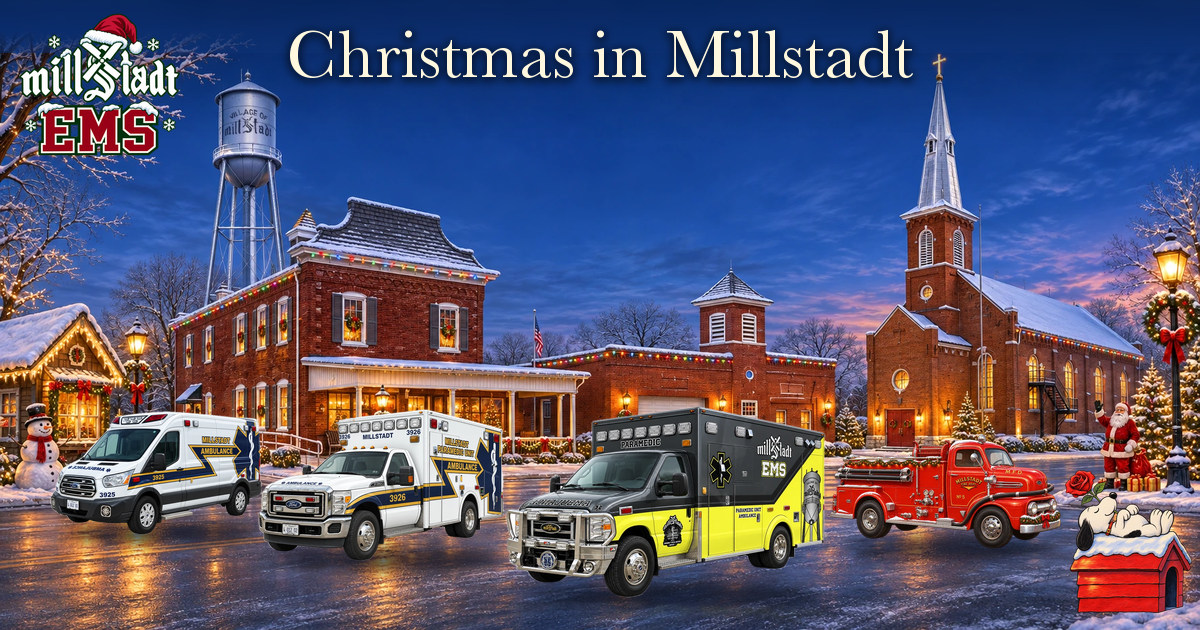
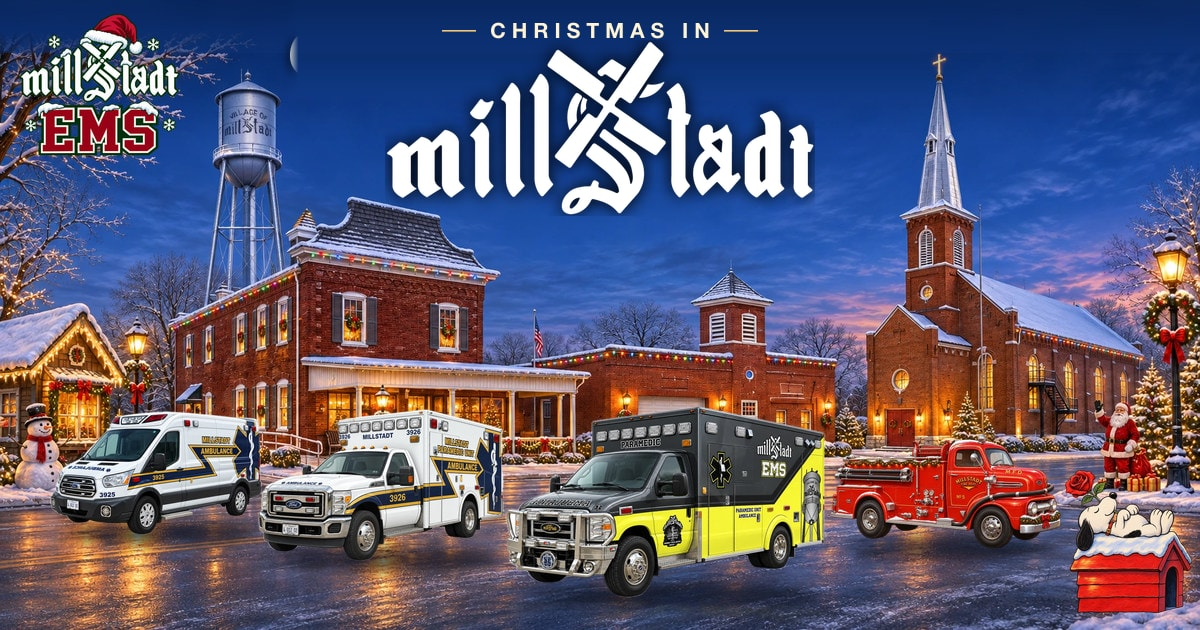
Bury every drive-by ambulance, shrink the carolers and add Audrey and Debbie
- The chaos sleigh and the roof-ride ambulance now drift over and get stuck like the classic one,
  with snow stages traced from their own art, and the police truck tows them out.
- Caroler pop-ups are about a third smaller and stay further from the middle of the screen.
- Audrey and Debbie join the random peeks from the bottom and sides.
- Link previews show "Christmas in Millstadt" with the millStadt wordmark.
- The hero call stats get breathing room above the "Established 1980" bar.

diff --git a/components/AmboScroll.tsx b/components/AmboScroll.tsx
@@ -194,22 +194,36 @@ function preload(urls: string[], ms = 12_000): Promise<boolean> {
 
 /** A vehicle that can be snowed in and towed: its five snow-stage overlays and tow geometry. */
 type StuckVehicle = {
-  id: "ambulance";
+  id: "ambulance" | "chaos" | "roof";
   art: string;
   stages: readonly string[];
   /** Fractions of the art box: front bumper x, body length, road line y, front tow hook. */
   front: number; length: number; floor: number; hook: readonly [number, number];
 };
+const snowStages = (prefix: string) => [1, 2, 3, 4, 5].map(n => `/images/winter/kit/ambulance-snow/${prefix}${n}.webp`);
 const AMBULANCE: StuckVehicle = {
   id: "ambulance",
   art: "/images/winter/driveby/cartoon-ambo.webp",
-  stages: [1, 2, 3, 4, 5].map(n => `/images/winter/kit/ambulance-snow/stage${n}.webp`),
+  stages: snowStages("stage"),
   front: .018, length: .97, floor: .918, hook: [.029, .718],
 };
-/** Which vehicle gets snowed in on a pass. The snow stages only fit the cartoon ambulance so far;
- *  fire trucks can join the draw once their stages exist. */
+// The painted 3935 in the chaos sleigh and roof-ride passes: snow stages traced from each art's own
+// outline (drifts from the road, caps on the roof, hood and windshield).
+const CHAOS_AMBULANCE: StuckVehicle = {
+  id: "chaos",
+  art: `${DRIVEBY}/chaos-ambulance.webp`,
+  stages: snowStages("chaos-stage"),
+  front: .015, length: .97, floor: .985, hook: [.025, .76],
+};
+const ROOF_AMBULANCE: StuckVehicle = {
+  id: "roof",
+  art: `${DRIVEBY}/roof-ride-1-still.webp`,
+  stages: snowStages("roof-stage"),
+  front: .023, length: .96, floor: .993, hook: [.03, .76],
+};
+/** Which vehicle gets snowed in on a pass: every ambulance can be buried and towed out. */
 function pickStuckVehicle(variant: VariantId): StuckVehicle | null {
-  return variant === "classic" ? AMBULANCE : null;
+  return variant === "classic" ? AMBULANCE : variant === "chaos" ? CHAOS_AMBULANCE : variant === "roof" ? ROOF_AMBULANCE : null;
 }
 /** Snow stage 1-5 for a hit count: stage 5 (fully stuck) lands on the STUCK_HITS-th hit. */
 const snowStage = (hits: number) => hits <= 0 ? 0 : hits >= STUCK_HITS ? 5 : 1 + Math.floor((hits - 1) * 4 / (STUCK_HITS - 1));
@@ -746,8 +760,8 @@ function WinterConvoy({ pass, onFinish, drive, convoyRef, ambulanceRef, sleighRe
       }}
     >
       {pass.variant === "classic" && <ClassicConvoy drive={drive} ambulanceRef={ambulanceRef} sleighRef={sleighRef} snowRef={snowRef} onArt={onArt} />}
-      {pass.variant === "chaos" && <ChaosConvoy pass={pass} drive={drive} ambulanceRef={ambulanceRef} sleighRef={sleighRef} lit={ready} onArt={onArt} />}
-      {pass.variant === "roof" && <RoofConvoy pass={pass} drive={drive} ambulanceRef={ambulanceRef} sleighRef={sleighRef} lit={ready} onArt={onArt} />}
+      {pass.variant === "chaos" && <ChaosConvoy pass={pass} drive={drive} ambulanceRef={ambulanceRef} sleighRef={sleighRef} snowRef={snowRef} lit={ready} onArt={onArt} />}
+      {pass.variant === "roof" && <RoofConvoy pass={pass} drive={drive} ambulanceRef={ambulanceRef} sleighRef={sleighRef} snowRef={snowRef} lit={ready} onArt={onArt} />}
       {pass.variant === "reindeer" && <ReindeerConvoy drive={drive} sleighRef={sleighRef} onArt={onArt} />}
     </div>
   );
@@ -794,11 +808,23 @@ function Towline({ box, frame }: { box: Box; frame: Box }) {
   );
 }
 
+/** Snow piling up on an ambulance stage by stage, stacked exactly over its art. Each stage loads a
+ *  step ahead so the next one is ready when it lands; the pile breaks away when the tow frees it. */
+function SnowStages({ vehicle, drive, snowRef }: { vehicle: StuckVehicle; drive: DriveProps; snowRef: SpanRef }) {
+  const loadUpTo = drive.truckHits > 0 ? Math.min(5, drive.stage + 1) : 0;
+  return (
+    <span ref={snowRef} className={styles.snowStages} data-freed={drive.freed ? "true" : undefined}>
+      {vehicle.stages.slice(0, loadUpTo).map((src, i) => (
+        <Image key={src} className={styles.snowStage} data-on={drive.stage === i + 1 ? "true" : undefined}
+          src={src} alt="" fill unoptimized sizes="(max-width: 767px) 155px, 220px" loading="eager" draggable={false} />
+      ))}
+    </span>
+  );
+}
+
 function ClassicConvoy({ drive, ambulanceRef, sleighRef, snowRef, onArt }: { drive: DriveProps; ambulanceRef: SpanRef; sleighRef: SpanRef; snowRef: SpanRef; onArt: () => void }) {
   const stage = VARIANTS.classic.stage;
   const vehicle = AMBULANCE;
-  // Load each snow stage a step ahead so the next one is ready when it lands.
-  const loadUpTo = drive.truckHits > 0 ? Math.min(5, drive.stage + 1) : 0;
   return (
     <>
       <span className={styles.groundShadow} style={place([60, 900, 2780, 960], stage)} />
@@ -808,20 +834,14 @@ function ClassicConvoy({ drive, ambulanceRef, sleighRef, snowRef, onArt }: { dri
       <span ref={ambulanceRef} className={styles.ambulance} data-classic="" style={place(CLASSIC.art, stage)}>
         <Image className={styles.layerArt} src={vehicle.art} alt="" fill unoptimized
           sizes="(max-width: 767px) 155px, 220px" loading="eager" draggable={false} onLoad={onArt} onError={onArt} />
-        {/* Snow piling up stage by stage, stacked exactly over the art. */}
-        <span ref={snowRef} className={styles.snowStages} data-freed={drive.freed ? "true" : undefined}>
-          {vehicle.stages.slice(0, loadUpTo).map((src, i) => (
-            <Image key={src} className={styles.snowStage} data-on={drive.stage === i + 1 ? "true" : undefined}
-              src={src} alt="" fill unoptimized sizes="(max-width: 767px) 155px, 220px" loading="eager" draggable={false} />
-          ))}
-        </span>
+        <SnowStages vehicle={vehicle} drive={drive} snowRef={snowRef} />
         <Hit kind="truck" box={[30, 60, 1520, 900]} frame={CLASSIC.art} />
       </span>
     </>
   );
 }
 
-function ChaosConvoy({ pass, drive, ambulanceRef, sleighRef, lit, onArt }: { pass: Pass; drive: DriveProps; ambulanceRef: SpanRef; sleighRef: SpanRef; lit: boolean; onArt: () => void }) {
+function ChaosConvoy({ pass, drive, ambulanceRef, sleighRef, snowRef, lit, onArt }: { pass: Pass; drive: DriveProps; ambulanceRef: SpanRef; sleighRef: SpanRef; snowRef: SpanRef; lit: boolean; onArt: () => void }) {
   const tesla = useDeviceProfile() === "tesla";
   const stage = VARIANTS.chaos.stage;
   const sleighBox = CHAOS.sleigh;
@@ -875,6 +895,7 @@ function ChaosConvoy({ pass, drive, ambulanceRef, sleighRef, lit, onArt }: { pas
         <Image className={styles.layerArt} src="/images/winter/driveby/chaos-ambulance.webp" alt="" fill unoptimized
           sizes="(max-width: 767px) 150px, 216px" loading="eager" draggable={false} onLoad={onArt} onError={onArt} />
         <span className={styles.lights}><EmergencyLights unit="driveby-chaos" on={lit} /></span>
+        <SnowStages vehicle={CHAOS_AMBULANCE} drive={drive} snowRef={snowRef} />
         <Hit kind="truck" box={[240, 105, 798, 492]} frame={CHAOS.ambulance} />
         <Hit kind="truck" box={[1, 230, 495, 557]} frame={CHAOS.ambulance} />
       </span>
@@ -882,7 +903,7 @@ function ChaosConvoy({ pass, drive, ambulanceRef, sleighRef, lit, onArt }: { pas
   );
 }
 
-function RoofConvoy({ pass, drive, ambulanceRef, sleighRef, lit, onArt }: { pass: Pass; drive: DriveProps; ambulanceRef: SpanRef; sleighRef: SpanRef; lit: boolean; onArt: () => void }) {
+function RoofConvoy({ pass, drive, ambulanceRef, sleighRef, snowRef, lit, onArt }: { pass: Pass; drive: DriveProps; ambulanceRef: SpanRef; sleighRef: SpanRef; snowRef: SpanRef; lit: boolean; onArt: () => void }) {
   const stage = VARIANTS.roof.stage;
   return (
     <>
@@ -905,6 +926,7 @@ function RoofConvoy({ pass, drive, ambulanceRef, sleighRef, lit, onArt }: { pass
         <Image className={`${styles.layerArt} ${styles.roofStill}`} src={`/images/winter/driveby/roof-ride-${pass.version}-still.webp`} alt="" fill unoptimized
           sizes="(max-width: 767px) 180px, 252px" loading="eager" draggable={false} onLoad={onArt} onError={onArt} />
         <span className={styles.lights}><EmergencyLights unit={`driveby-roof-${pass.version}`} on={lit} /></span>
+        <SnowStages vehicle={ROOF_AMBULANCE} drive={drive} snowRef={snowRef} />
         <Hit kind="truck" box={[0, 250, 760, 684]} frame={ROOF.art} />
         <Hit kind="truck" box={[240, 0, 640, 280]} frame={ROOF.art} />
         <Hit kind="truck" box={[740, 470, 874, 580]} frame={ROOF.art} />

diff --git a/components/WinterSnowballAmbush.tsx b/components/WinterSnowballAmbush.tsx
@@ -19,7 +19,9 @@ import styles from "./WinterSnowballAmbush.module.css";
 // (optional: pop-edge=drift|floor|corner-left|corner-right, pop-tough=1-3, pop-person=<id>).
 
 export type Crew = "kalista" | "braeden" | "dylan" | "medical-director";
-type Person = Crew | "caroler-curly" | "caroler-straight" | "caroler-little";
+// Audrey and Debbie join the peeks (they never hang on the lights, so they're always free).
+type Guest = "audrey" | "debbie";
+type Person = Crew | Guest | "caroler-curly" | "caroler-straight" | "caroler-little";
 type Kind = "classic" | "wave" | "serenade" | "backflip" | "peek" | "caroler" | "trio";
 type Edge = "drift" | "floor" | "corner-left" | "corner-right";
 export type XY = readonly [number, number];
@@ -79,7 +81,22 @@ const peekArt: Record<Crew, { excited: XY; scared: Placed; nauseous: Placed; hel
   dylan: { excited: [419, 585], scared: [420, 583, 1.018, -25.1, 0], nauseous: [422, 590, .993, 21, 0], hello: [487, 507, 1.53, -182.5, 4], face: [.54, .38] },
   "medical-director": { excited: [396, 634], scared: [395, 634, .993, 0, 0], nauseous: [402, 635, 1.005, 0, 0], hello: [428, 537, 1.74, -214.4, 9.5], face: [.52, .52] },
 };
-function peekRig(person: Crew): Rig {
+// Audrey and Debbie: busts cut from their pop-up videos (one smiling picture for every moment).
+const guestNames: Record<Guest, string> = { audrey: "Audrey", debbie: "Debbie" };
+const guestArt: Record<Guest, { size: XY; face: XY }> = {
+  audrey: { size: [359, 498], face: [.5, .3] },
+  debbie: { size: [407, 502], face: [.47, .3] },
+};
+const isGuest = (person: Person): person is Guest => person === "audrey" || person === "debbie";
+function peekRig(person: Crew | Guest): Rig {
+  if (isGuest(person)) {
+    const { size: [W, H], face } = guestArt[person], bust = frame(`pop/${person}-excited`, W, H);
+    return {
+      W, H, visible: .72,
+      frames: { hello: bust, excited: bust, scared: bust, nauseous: bust },
+      faces: [[face[0] * W, face[1] * H]], head: [face[0] * W, H * .02],
+    };
+  }
   const p = peekArt[person], [W, H] = p.excited;
   const placed = (pose: string, [w, h, s, x, y]: Placed) => frame(`pop/${person}-${pose}`, w, h, x, y, s);
   return {
@@ -125,7 +142,7 @@ const trio: Person[] = ["caroler-little", "caroler-curly", "caroler-straight"];
 const castings: ReadonlyArray<{ kind: Kind; weight: number; casts: Person[][] }> = [
   { kind: "classic", weight: 1, casts: crew.map((person) => [person]) },
   { kind: "wave", weight: .85, casts: crew.map((person) => [person]) },
-  { kind: "peek", weight: 1, casts: crew.map((person) => [person]) },
+  { kind: "peek", weight: 1, casts: [...crew, "audrey", "debbie"].map((person) => [person as Person]) },
   { kind: "serenade", weight: .8, casts: [["braeden"]] },
   { kind: "backflip", weight: .8, casts: [["dylan"]] },
   { kind: "caroler", weight: .9, casts: [["caroler-curly"], ["caroler-straight"]] },
@@ -353,7 +370,11 @@ function runCast(env: Env) {
     switch (c.kind) {
       case "classic": return { rig: crewRig(person), edges: ["drift", "drift", "floor"], frame: "boo", name: crewNames[person] };
       case "wave": return { rig: crewRig(person), edges: ["drift", "floor"], frame: "wave", name: crewNames[person] };
-      case "peek": return { rig: peekRig(person), edges: ["floor", "floor", "corner-left", "corner-right"], frame: "excited", name: crewNames[person] };
+      case "peek": {
+        const who = c.people[0];
+        const guest = isGuest(who);
+        return { rig: peekRig(guest ? who : person), edges: ["floor", "floor", "corner-left", "corner-right"], frame: "excited", name: guest ? guestNames[who] : crewNames[person] };
+      }
       case "serenade": return { rig: serenadeRig, edges: ["floor"], frame: "s1", name: "Braeden" };
       case "backflip": return { rig: flipRig, edges: ["floor"], frame: "f0", name: "Dylan" };
       case "caroler": {
@@ -381,15 +402,17 @@ function runCast(env: Env) {
       if (w < 72) return null;
       h = w / ratio;
     } else {
-      const zoom = (car ? 1.15 : 1) * between(.9, 1.1);
+      // The carolers sing smaller and out of the way.
+      const carol = kind === "caroler" || kind === "trio" ? .66 : 1;
+      const zoom = (car ? 1.15 : 1) * between(.9, 1.1) * carol;
       h = rig.ground ? Math.min(400, Math.max(170, vh * (phone ? .3 : .35))) * zoom
         : Math.min(300, Math.max(120, vh * (phone ? .24 : .27))) * zoom / rig.visible;
-      const widest = vw * (kind === "trio" ? (phone ? .76 : .36) : (phone ? .5 : .3));
+      const widest = vw * (kind === "trio" ? (phone ? .56 : .26) : (phone ? .5 : .3)) * (kind === "caroler" ? .75 : 1);
       if (h * ratio > widest) h = widest / ratio;
       // What shows must fit under the header (the backflip needs headroom for the jump).
       const shown = rig.ground ? h * (rig.ground / rig.H) * (kind === "backflip" ? 1.5 : 1) : h * rig.visible;
       if (shown > floor - top - 8) h *= (floor - top - 8) / shown;
-      if (h < 90 || h * ratio < 60) return null;
+      if (h < (carol < 1 ? 64 : 90) || h * ratio < 48) return null;
       w = h * ratio;
     }
     const avoid = [...actors.values()].map(a => a.box);

diff --git a/lib/seasonal/share-metadata.ts b/lib/seasonal/share-metadata.ts
@@ -18,7 +18,7 @@ export function withWinterShareCard(normal: Metadata, page: keyof typeof cards =
   const seasonYear = Number(localDate.slice(0, 4)) - (localDate.slice(5, 7) === "01" ? 1 : 0);
   const card = cards[page];
   const image = {
-    url: `https://www.millstadtems.org/images/winter/${card.file}?season=${seasonYear}&art=2`,
+    url: `https://www.millstadtems.org/images/winter/${card.file}?season=${seasonYear}&art=3`,
     width: 1200, height: 630, type: "image/jpeg", alt: card.alt,
   };
   // Omitting a shared title and description lets Next inherit the leaf page's

diff --git a/app/globals.css b/app/globals.css
@@ -216,6 +216,8 @@ body {
   flex: 0 0 auto;
   width: 100%;
 }
+/* Breathing room: the call stats and top categories never sit on the stats bar beneath them. */
+.hero-middle { padding-bottom: 48px; }
 
 /* ── Scoreboard roll animation ── */
 @keyframes roll-in {
